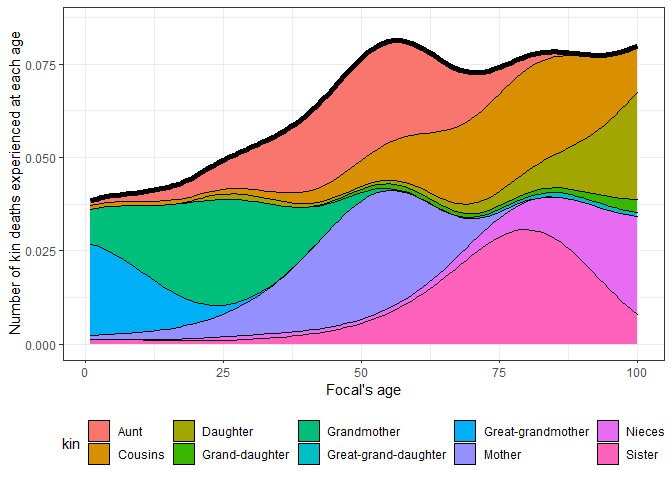
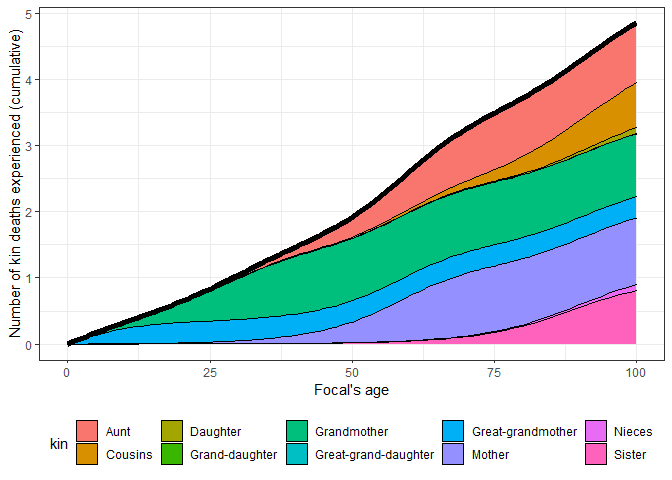
moved things around

diff --git a/README.md b/README.md
@@ -43,25 +43,15 @@ library(fields)
 The `DemoKin` package includes data from Sweden as an example. The data
 comes from the [Human Mortality Database](https://www.mortality.org/)
 and [Human Fertility Database](https://www.humanfertility.org/). These
-datasets were loaded using the`DemoKin::get_HMDHFD` function. This is
-the Swedish data we will be using:
-
-``` r
-data(package="DemoKin")$results[10:13 , 3:4] %>% 
-  data.frame() 
-```
-
-    ##       Item                                                   Title
-    ## 1 swe_asfr  Swedish age-specific fertility rates from 1900 to 2015
-    ## 2  swe_pop             Female swedish population from 1900 to 2015
-    ## 3   swe_px Female swedish survival probabilities from 1900 to 2015
-    ## 4 swe_surv
+datasets were loaded using the`DemoKin::get_HMDHFD` function.
 
 ### `swe_px` matrix; survival probabilities by age (DemoKin’s *U* argument)
 
 This is what the data looks like:
 
 ``` r
+data("swe_px", package="DemoKin")
+
 swe_px[1:4, 1:4]
 ```
 
@@ -83,13 +73,15 @@ image.plot(
   )
 ```
 
-![](README_files/figure-gfm/unnamed-chunk-5-1.png)<!-- -->
+![](README_files/figure-gfm/unnamed-chunk-4-1.png)<!-- -->
 
 ### `swe_asfr` matrix; age specific fertility rate (DemoKin’s *f* argument)
 
 This is what the data looks like:
 
 ``` r
+data("swe_asfr", package="DemoKin")
+
 swe_asfr[15:20, 1:4]
 ```
 
@@ -113,7 +105,7 @@ image.plot(
   )
 ```
 
-![](README_files/figure-gfm/unnamed-chunk-7-1.png)<!-- -->
+![](README_files/figure-gfm/unnamed-chunk-6-1.png)<!-- -->
 
 # 3\. The function `kin()`
 
@@ -256,12 +248,12 @@ each age throughout their life. We then ask:
 > How can we characterize the kinship network of an average member of
 > the population (call her ‘Focal’)?
 
-For this exercise, we’ll use the Swedish data pre-loaded.
+For this exercise, we’ll use the pre-loaded Swedish data.
 
 ``` r
 # First, get vectors for a given year
-swe_surv_2015 <- DemoKin::swe_px[,"1950"]
-swe_asfr_2015 <- DemoKin::swe_asfr[,"1950"]
+swe_surv_2015 <- DemoKin::swe_px[,"2015"]
+swe_asfr_2015 <- DemoKin::swe_asfr[,"2015"]
 # Run kinship models
 swe_2015 <- kin(U = swe_surv_2015, f = swe_asfr_2015, time_invariant = TRUE)
 ```
@@ -279,7 +271,7 @@ swe_2015$kin_summary %>%
   plot_diagram(rounding = 2)
 ```
 
-![](README_files/figure-gfm/unnamed-chunk-14-1.png)<!-- -->
+![](README_files/figure-gfm/unnamed-chunk-13-1.png)<!-- -->
 
 ## Expected kin counts for a Focal person surviving to each age
 
@@ -299,7 +291,7 @@ swe_2015$kin_summary %>%
   facet_wrap(~kin)
 ```
 
-![](README_files/figure-gfm/unnamed-chunk-15-1.png)<!-- -->
+![](README_files/figure-gfm/unnamed-chunk-14-1.png)<!-- -->
 
 > Note: we are working in a time invariant framework. You can think if
 > the results as analogous to life expectancy: expected years of life
@@ -329,7 +321,7 @@ swe_2015$kin_summary %>%
   theme(legend.position = "bottom")
 ```
 
-![](README_files/figure-gfm/unnamed-chunk-16-1.png)<!-- -->
+![](README_files/figure-gfm/unnamed-chunk-15-1.png)<!-- -->
 
 ## Age distribution of relatives
 
@@ -349,7 +341,7 @@ theme_bw() +
 facet_wrap(~kin)
 ```
 
-![](README_files/figure-gfm/unnamed-chunk-17-1.png)<!-- -->
+![](README_files/figure-gfm/unnamed-chunk-16-1.png)<!-- -->
 
 The output of the `DemoKin::kin()` function can also be used to easily
 determine the mean age Focal’s relatives by kin type. For simplicity,
@@ -377,7 +369,7 @@ sda <-
 print(paste0("The mother of a 35-yo Focal woman in our time-invariant population is, on average, ", ma," years old, with a standard deviation of ", sda," years."))
 ```
 
-    ## [1] "The mother of a 35-yo Focal woman in our time-invariant population is, on average, 61.8 years old, with a standard deviation of 5.9 years."
+    ## [1] "The mother of a 35-yo Focal woman in our time-invariant population is, on average, 65.4 years old, with a standard deviation of 5.1 years."
 
 Finally, let´s visualize the living kin by type and mean age during
 Ego’s life course:
@@ -405,11 +397,11 @@ swe_2015$kin_full %>%
     ## `summarise()` has grouped output by 'age_focal'. You can override using the
     ## `.groups` argument.
 
-    ## Warning: Removed 81 rows containing missing values (geom_point).
+    ## Warning: Removed 87 rows containing missing values (geom_point).
 
-    ## Warning: Removed 81 row(s) containing missing values (geom_path).
+    ## Warning: Removed 87 row(s) containing missing values (geom_path).
 
-![](README_files/figure-gfm/unnamed-chunk-19-1.png)<!-- -->
+![](README_files/figure-gfm/unnamed-chunk-18-1.png)<!-- -->
 
 ## Deceased kin
 
@@ -447,7 +439,7 @@ swe_2015$kin_summary %>%
     ## `summarise()` has grouped output by 'age_focal'. You can override using the
     ## `.groups` argument.
 
-![](README_files/figure-gfm/unnamed-chunk-20-1.png)<!-- -->
+![](README_files/figure-gfm/unnamed-chunk-19-1.png)<!-- -->
 
 ### Cumulative number of kin deaths
 
@@ -478,10 +470,10 @@ swe_2015$kin_summary %>%
     ## `summarise()` has grouped output by 'age_focal'. You can override using the
     ## `.groups` argument.
 
-![](README_files/figure-gfm/unnamed-chunk-21-1.png)<!-- -->
+![](README_files/figure-gfm/unnamed-chunk-20-1.png)<!-- -->
 
 A member of the population aged 15, 50, and 65yo will have experienced,
-on average, the death of 0.6, 2.6, 3.8 relatives, respectively. We can
+on average, the death of 0.5, 1.9, 2.9 relatives, respectively. We can
 decompose this by relative type:
 
 # 5\. Vignette and extensions
@@ -493,6 +485,10 @@ install the package as `devtools::install_github("IvanWilli/DemoKin",
 build_vignettes = TRUE)`.
 
 # 6\. Exercises
+
+**For all exercises, assume time-invariant rates at the 2010 levels in
+Sweden and a female-only population. All exercises can be completed
+using datasets included in DemoKin.**
 
 ## Exercise 1. Age of kin
 
@@ -516,7 +512,7 @@ swe_2015$kin_summary %>%
 
     ## Warning: Removed 1 row(s) containing missing values (geom_path).
 
-![](README_files/figure-gfm/unnamed-chunk-22-1.png)<!-- -->
+![](README_files/figure-gfm/unnamed-chunk-21-1.png)<!-- -->
 
 **Instructions**
 
@@ -568,7 +564,7 @@ swe_x$kin_full %>%
 
     ## Warning: Removed 1 row(s) containing missing values (geom_path).
 
-![](README_files/figure-gfm/unnamed-chunk-23-1.png)<!-- -->
+![](README_files/figure-gfm/unnamed-chunk-22-1.png)<!-- -->
 
 Second, get ages of all sisters, irrespective of whether they are older
 or younger:
@@ -591,11 +587,7 @@ swe_x$kin_full %>%
   theme_bw()
 ```
 
-![](README_files/figure-gfm/unnamed-chunk-24-1.png)<!-- -->
-
-For all exercises, assume time-invariant rates at the 2010 levels in
-Sweden and a female-only population. All exercises can be completed
-using datasets included in DemoKin.
+![](README_files/figure-gfm/unnamed-chunk-23-1.png)<!-- -->
 
 ## Exercise 2. Living mother
 
@@ -634,7 +626,7 @@ swe_x$kin_summary %>%
   theme_bw()
 ```
 
-![](README_files/figure-gfm/unnamed-chunk-25-1.png)<!-- -->
+![](README_files/figure-gfm/unnamed-chunk-24-1.png)<!-- -->
 
 ``` r
 swe_x$kin_summary$count_living[71]
@@ -736,7 +728,7 @@ data.frame(age_focal = ages, y = S) %>%
   theme_bw()
 ```
 
-![](README_files/figure-gfm/unnamed-chunk-27-1.png)<!-- -->
+![](README_files/figure-gfm/unnamed-chunk-26-1.png)<!-- -->
 
 ## References
 
